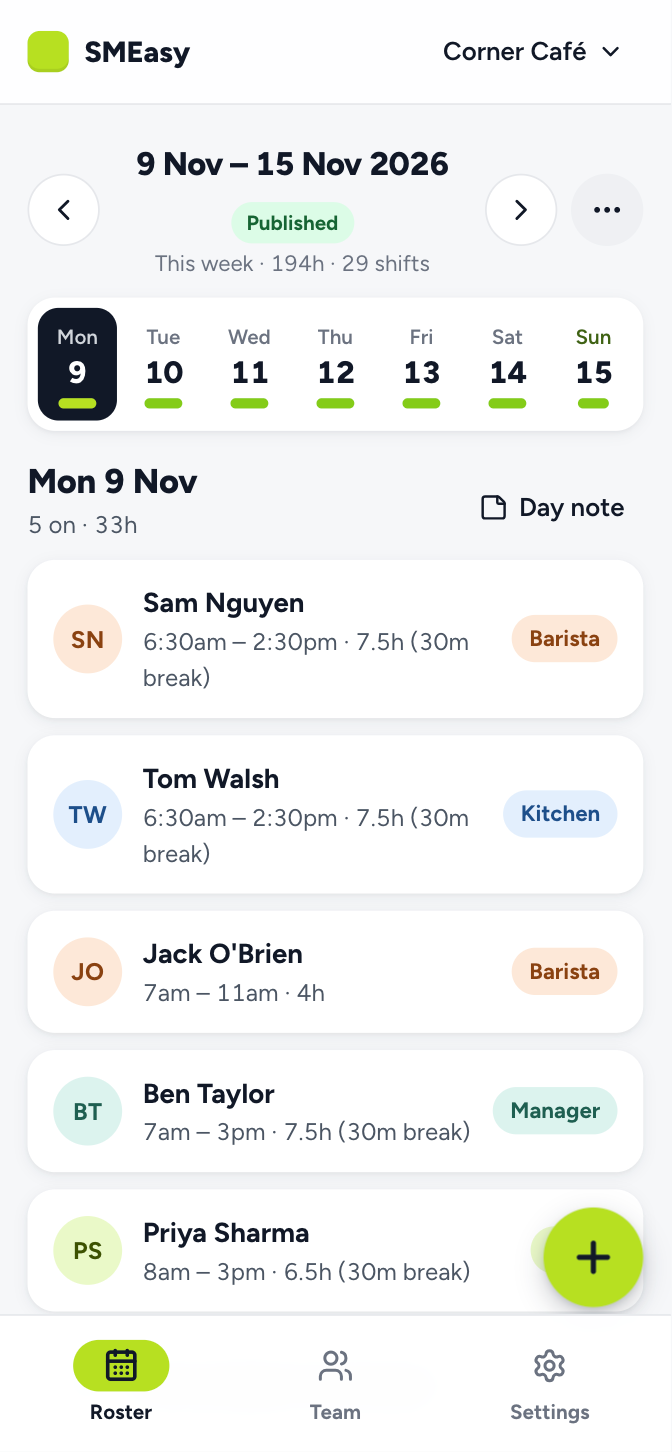
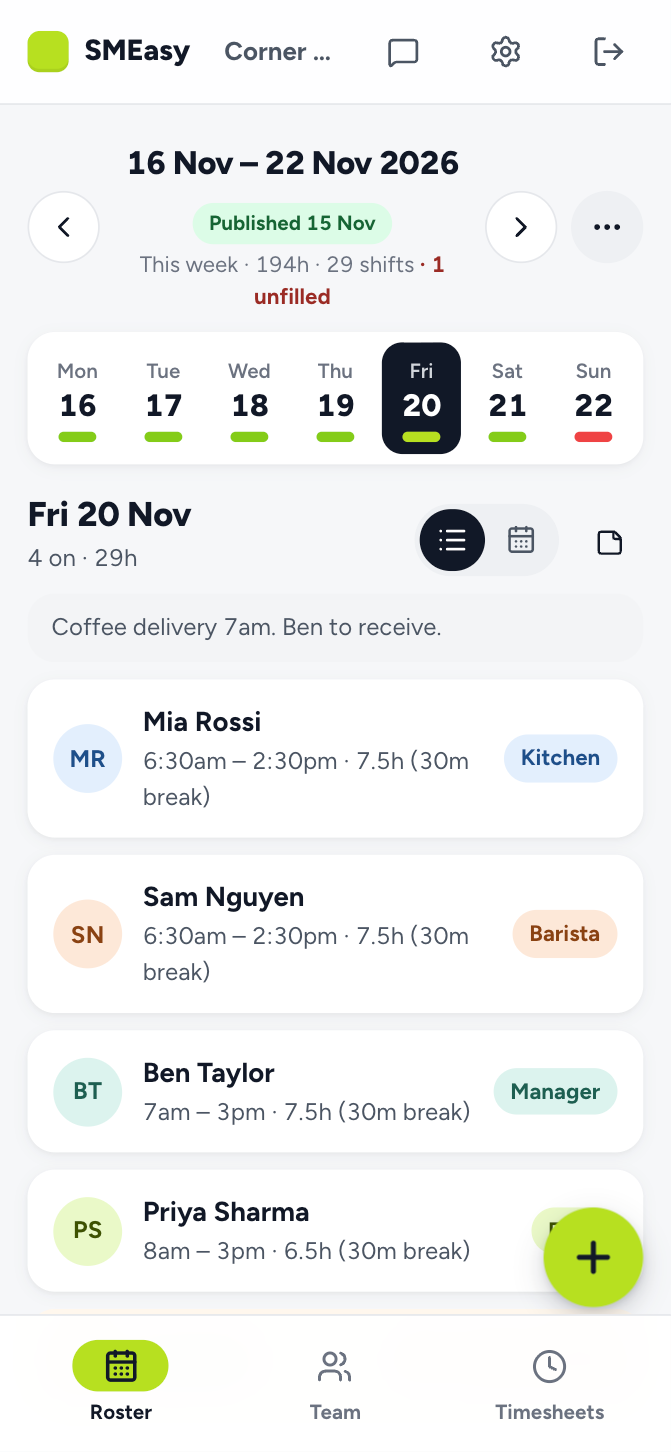
Product shots retaken for the current app: new header and tabs, Unfilled row, staff personal link, wider desktop week; alt text and captions match

diff --git a/src/content/guides.ts b/src/content/guides.ts
@@ -41,7 +41,7 @@ export const guides: Guide[] = [
         "Email — they get their shifts by email whenever you publish. Staff can also add their own email on their personal link.",
         "Usual hours a week — 38 by default. The roster quietly shows when you give someone more.",
       ] },
-      { shot: "team-phone", alt: "The SMEasy Team page on a phone, listing staff with their usual roles and Edit, Text link and Copy link buttons", caption: "The Team page: everyone's usual role, and their link ready to text or copy." },
+      { shot: "team-phone", alt: "The SMEasy Team page on a phone, listing staff with their usual roles and Edit and Send link buttons", caption: "The Team page: everyone's usual role, and Send link to email, text or copy their personal link." },
       { h2: "3. Add shifts" },
       { p: "Open Roster. You'll see your team down the side and the days of the week across the top (Monday to Sunday, unless you pick a different start day in Settings). Tap any cell to add a shift: pick a start and finish time, an unpaid break and a role, then save." },
       { ul: [
@@ -52,7 +52,7 @@ export const guides: Guide[] = [
       { tip: "SMEasy remembers each person's last shift times, so adding the same shift across several days is quick." },
       { p: "Each role has its own colour, so you can see the mix at a glance. Add a note to a shift if there's something the person needs to know, or tap a day's heading to add a note for the whole day." },
       { p: "Same hours on several days? Under \"Also add on\", tap the other days (or Weekdays or Every day) and SMEasy adds the shift to all of them at once. Editing a shift works the same way, under \"Copy to other days\"." },
-      { shot: "add-shift-phone", alt: "The Add shift sheet on a phone: Ben picked, 8am to 12pm, Manager role, and Tuesday to Friday selected under Also add on", caption: "One shift, five days: pick the other days under \"Also add on\" and save once." },
+      { shot: "add-shift-phone", alt: "The Add shift sheet on a phone: Lily picked for Monday, 8am to 12pm, Floor role, and Wednesday and Friday selected under Also add on, with Thursday marked for her time off", caption: "One shift, several days: pick the other days under \"Also add on\" and save once." },
       { p: "Not sure who'll work a shift yet? On a laptop, click a day in the Unfilled row under your team; on a phone, choose \"No one yet\" (first in the Who row) when you add a shift. It shows in red as unfilled. Staff don't see unfilled shifts. The Cover line under each day shows how many people are on, their hours and any unfilled shifts." },
       { shot: "roster-week-desktop", alt: "A week's roster in SMEasy on a laptop: seven staff, shifts colour-coded by role, an unfilled Sunday shift in red, a time-off request and the cover count under each day", caption: "The whole week on a laptop: roles in colour, the unfilled shift in red, cover under each day." },
       { p: "To check cover, switch to Day view (top right on a laptop; on a phone, tap the calendar icon on a day). The day reads like a calendar, hours down the page, and any time with nobody on shows as a red band with a Fill this gap button. In the week view, the bar under each day shows red where the gaps are." },
@@ -83,10 +83,10 @@ export const guides: Guide[] = [
         "Each week, publish the roster and drop a quick \"next week's up\" in the chat.",
       ] },
       { p: "Staff open the link, pick their name to highlight their shifts and hours, and can flip between published weeks. The page remembers their name on that phone." },
-      { shot: "staff-link-phone", alt: "The team roster link on a staff member's phone: Jack's next shift, 7am to 11am tomorrow, above the day's full roster with his shift highlighted", caption: "What staff see: their next shift up top, the whole team below." },
       { tip: "Tell staff to add the link to their phone's home screen. It then opens like an app." },
       { h2: "Option 2: email" },
       { p: "When you publish, everyone rostered who has an email address gets an email with their own shifts for the week, any notes, and a button to their personal link. Replies come to you." },
+      { shot: "staff-link-phone", alt: "Jack's personal roster link on his phone: his next shift, 7am to 3pm tomorrow, above his shifts for the week, with a My shifts and Everyone switch", caption: "A personal link: their next shift up top, their week below, and Everyone for the whole team." },
       { ul: [
         "Add emails on the Team page (tap a name, then Edit). Anyone without one shows \"Add email for roster emails\".",
         "Staff can add or change their own email on their personal link, under Roster by email.",
@@ -186,7 +186,7 @@ export const guides: Guide[] = [
       { p: "There's nothing to install. SMEasy runs in your phone's browser, and the roster screen is laid out for small screens." },
       { h2: "1. Use the day cards" },
       { p: "On a phone, the roster shows one day at a time. Tap a day in the strip at the top (or swipe left and right), then tap + to add a shift: choose who, set the times and save. Copy last week, the PDF, payroll hours and Email the team are under the … button. Tap the calendar icon on a day to see it hour by hour, with any gaps in red." },
-      { shot: "roster-day-phone", alt: "The SMEasy roster on a phone showing Monday's shifts as cards under the week strip, with the add button and bottom tab bar", caption: "One day at a time, with the week strip on top and + to add a shift." },
+      { shot: "roster-day-phone", alt: "The SMEasy roster on a phone showing Friday's shifts as cards under the week strip, with the day note, the list and calendar switch, the add button and bottom tab bar", caption: "One day at a time, with the week strip on top and + to add a shift." },
       { h2: "2. Fix call-outs in seconds" },
       { p: "Someone can't make it? Tap their shift, then delete it or switch it to whoever's covering. If the week's already published, the team link updates immediately." },
       { h2: "3. Put SMEasy on your home screen" },

diff --git a/src/app/(marketing)/page.tsx b/src/app/(marketing)/page.tsx
@@ -30,7 +30,7 @@ const steps = [
   { n: "2", t: "Build the week", d: "Tap a day to add a shift, or copy last week and tweak what's different.",
     shot: "add-shift-phone", alt: "Adding a shift on a phone: who, start and finish, role, and the other days to add it to" },
   { n: "3", t: "Publish and share", d: "Hit publish and your team gets their shifts by email. The team link and PDF are there too.",
-    shot: "staff-link-phone", alt: "The team roster link on a staff member's phone, showing their next shift" },
+    shot: "staff-link-phone", alt: "A staff member's personal roster link on their phone, showing their next shift" },
 ] as const;
 
 const features = [

diff --git a/src/components/DeviceShot.tsx b/src/components/DeviceShot.tsx
@@ -5,7 +5,7 @@ import { C } from "@/lib/mkt";
 // minimal browser bar. Captured from the demo "Corner Café" account; see DESIGN.md.
 
 export const SHOTS = {
-  "roster-week-desktop": { w: 1600, h: 1734, device: "desktop", url: "smeasy.au/week" },
+  "roster-week-desktop": { w: 1650, h: 1620, device: "desktop", url: "smeasy.au/week" },
   "roster-day-phone": { w: 672, h: 1452, device: "phone" },
   "add-shift-phone": { w: 672, h: 1452, device: "phone" },
   "staff-link-phone": { w: 672, h: 1452, device: "phone" },
